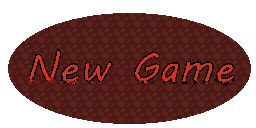
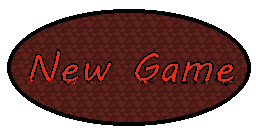
Added win screen to the game w/ music

Changed region(s): [[0.0, 0.0625, 1.0, 1.0]]

diff --git a/src/_menuManager.cpp b/src/_menuManager.cpp
@@ -150,7 +150,7 @@ void _menuManager::initMenuManager(_sounds* sharedSounds, _scene* _scene) {
     menuList[MENU_PAUSE].addMenuObject({
         "images/menu/continue_button.png",
         {0.2f, 0.2f},
-        {0.50f, 0.2f},
+        {0.60f, 0.2f},
         true,
         "pause_continue_button",
         MENU_PAUSE,
@@ -168,10 +168,41 @@ void _menuManager::initMenuManager(_sounds* sharedSounds, _scene* _scene) {
     menuList[MENU_PAUSE].addMenuObject({
         "images/menu/save_button.png",
         {0.2f, 0.2f},
-        {0.5f, 0.5f},
+        {0.6f, 0.5f},
         true,
         "pause_save_button",
         MENU_PAUSE,
+        MENU_NULL
+    });
+
+    menuList[MENU_PAUSE].addMenuObject({
+        "images/menu/exit_game_button.png",
+        {0.2f, 0.2f},
+        {0.8f, 0.5f},
+        true,
+        "exit_game_button",
+        MENU_PAUSE,
+        MENU_NULL
+    });
+
+    // -- WIN -- //
+    menuList[MENU_WIN].initMenu(MENU_WIN);
+    menuList[MENU_WIN].addMenuObject({
+        "images/menu/win_page.png",
+        {1.0f, 1.0f},
+        {0.5f, 0.5f},
+        false,
+        "win_bg",
+        MENU_WIN,
+        MENU_NULL
+    });
+    menuList[MENU_WIN].addMenuObject({
+        "images/menu/exit_game_button.png",
+        {0.2f, 0.2f},
+        {0.6f, 0.1f},
+        true,
+        "exit_game_button",
+        MENU_WIN,
         MENU_NULL
     });
 }
@@ -212,11 +243,18 @@ void _menuManager::updateMenuManager(double dt, const Vec2f &mousePos, bool mous
         }
     }
 
+    if (menu->endGameEvent) {
+        cout << "Exit Game Event!\n";
+        menu->endGameEvent = false;
+        closeGameEvent = true;
+    }
+
     if (menu->redirectTo != MENU_NULL) {
         if (menu->redirectTo == MENU_GAME) {
             if (!scene->isInitialized()) return; // Scene must be initialized if were trying to load the game
             loadGame = true;
             if (sounds) sounds->playSfx("GAME_START");
+            scene->gameUnPausedEvent = true;
             // if (sounds) sounds->playBackgroundMusic("sounds/gameplay_music.wav", 0.2f);
         }
         loadMenu(menu->redirectTo);     // Load menu
@@ -497,6 +535,8 @@ void _menuManager::_menu::updateMenu(double dt, const Vec2f &mousePos, bool mous
                 loadWorldEvent = true;
             } else if (menuObject->getID() == "pause_save_button") {
                 saveGameEvent = true;
+            } else if (menuObject->getID() == "exit_game_button") {
+                endGameEvent = true;
             }
             if (sounds) sounds->playSfx("MENU_CLICK");
             redirectTo = menuObject->getDestination();

diff --git a/src/_scene.cpp b/src/_scene.cpp
@@ -997,20 +997,48 @@ void _scene::updateScene(double dt, bool *keysArray)
         enemyManager->bossKilledEvent = false;
         gameEnded = true;
         gameWon = true;
-        cout << "GAME FINISHED!\n";
+        cout << "GAME WON!\n";
+    }
+
+    if (player->isRealDead) {
+        gameEnded = true;
+        gameWon = false;
+        cout << "GAME LOST\n";
     }
 
     if (gameEnded) {
-        player_light.intensity -= 0.3 * dt;
-        boss_light.intensity -= 0.3 * dt;
+        player_light.intensity -= 0.15 * dt;
+        boss_light.intensity -= 0.15 * dt;
+        fob_light.intensity = 0.0f;
 
         *lightManager->getLightIntensity("PLAYER_LIGHT") = player_light.intensity;
         *lightManager->getLightIntensity("BOSS_LIGHT") = boss_light.intensity;
+        *lightManager->getLightIntensity("FOB_LIGHT") = fob_light.intensity;
 
         gameEndedTimeElapsed += dt;
     }
 
+    if (gameEnded && gameEndedTimeElapsed > 3.0) {
+        soundManager->playBackgroundMusic("sounds/win_music.wav",0.075f);
+    }
+
     const float playerSpeed = player->movementSpeed;
+
+    if (gameUnPausedEvent) {
+        cout << "Game un-paused!\n";
+        gameUnPausedEvent = false;
+
+        const float distance = player->pos.distance({0.0f,0.0f});
+        if (distance > 8000.0f) {
+            player->playerLevelEvent = PLAYER_EVENT_LEVEL_OUTER;
+        } else if (distance < 8000.0f && distance > 3000.0f) {
+            player->playerLevelEvent = PLAYER_EVENT_LEVEL_MIDDLE;
+        } else if (distance < 3000.0f && distance > 400.0f) {
+            player->playerLevelEvent = PLAYER_EVENT_LEVEL_CENTER;
+        } else {
+            player->playerLevelEvent = PLAYER_EVENT_LEVEL_BOSS;
+        }
+    }
 
     switch (player->playerLevelEvent) {
         case PLAYER_EVENT_LEVEL_OUTER:

diff --git a/main.cpp b/main.cpp
@@ -357,8 +357,9 @@ LRESULT CALLBACK WndProc(	HWND	hWnd,			// Handle For This Window
 		case WM_KEYDOWN:							// Is A Key Being Held Down?
 		{
 			keys[wParam] = TRUE;					// If So, Mark It As TRUE
-			if (wParam == VK_ESCAPE) {
+			if (wParam == VK_ESCAPE && menuManager->getLoadedMenu() == MENU_GAME) {
 				cout << "Escape key pressed -- pausing game!\n";
+				sharedSounds->playBackgroundMusic("sounds/main_menu_music.ogg", 0.3f);
 				menuManager->loadMenu(MENU_PAUSE);
 			}
 			return 0;								// Jump Back
@@ -477,6 +478,11 @@ int WINAPI WinMain(	HINSTANCE	hInstance,			// Instance
 					menuManager->loadGame = false;
 				}
 
+				// Loads up the menu on game completion
+				if (myScene->gameWon && myScene->gameEndedTimeElapsed > 4.0) {
+					menuManager->loadMenu(MENU_WIN);
+				}
+
 				// Show Scene //
 				glViewport(0,0,wWidth,wHeight);
 				glClear(GL_COLOR_BUFFER_BIT | GL_DEPTH_BUFFER_BIT);
@@ -496,7 +502,13 @@ int WINAPI WinMain(	HINSTANCE	hInstance,			// Instance
 				glClear(GL_COLOR_BUFFER_BIT | GL_DEPTH_BUFFER_BIT);
 				if (timer->getMilliseconds() > UPDATE_DELAY) // If the time since the last update is greater than 16.67ms (60fps), update the scene
 				{
-					double dt = timer->getSeconds();
+					const double dt = timer->getSeconds();
+					
+					if (menuManager->closeGameEvent) {
+						// Closes the game
+						PostMessage(hWnd, WM_CLOSE, 0, 0);
+					}
+					
 					menuManager->updateMenuManager(dt,mouseScreenClipPos,LMB); //Update the scene with the time since the last update
 					myScene->updateAudio(dt); // Tick audio fades while on the main menu so music ramps up before entering game
 					timer->reset(); // Reset the timer for the next update

diff --git a/include/_scene.h b/include/_scene.h
@@ -76,13 +76,14 @@ class _scene
         // Returns true if the scene is initialized and ready
         bool isInitialized() const;
 
-        protected:
-    private:
         double gameEndedTimeElapsed = 0.0;
-    
-        bool sceneInitialized = false;
         bool gameEnded = false;
         bool gameWon = false;
+        bool gameUnPausedEvent = false;
+    protected:
+    private:
+    
+        bool sceneInitialized = false;
 
         // Window dimensions
         int width, height; 

diff --git a/include/_menuManager.h b/include/_menuManager.h
@@ -20,6 +20,7 @@ enum menu_type {
     MENU_HELP,
     MENU_PAUSE,
     MENU_SAVES,
+    MENU_WIN,
     MENU_COUNT // DO NOT MOVE -- KEEP AT BACK
 };
 
@@ -80,6 +81,8 @@ class _menuManager {
 
         // Sets window dimensions for menu drawing
         static void setWindowDimensions(const Vec2i &dim);
+
+        bool closeGameEvent = false;
     protected:
     private:
         /**
@@ -191,6 +194,7 @@ class _menuManager {
                 bool generateWorldEvent = false;
                 bool loadWorldEvent = false;
                 bool saveGameEvent = false;
+                bool endGameEvent = false;
             protected:
             private:
                 vector<unique_ptr<_menuObject>> menuObjects;